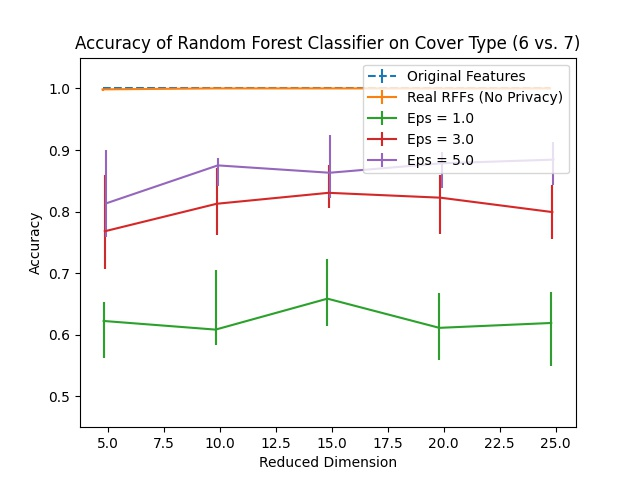
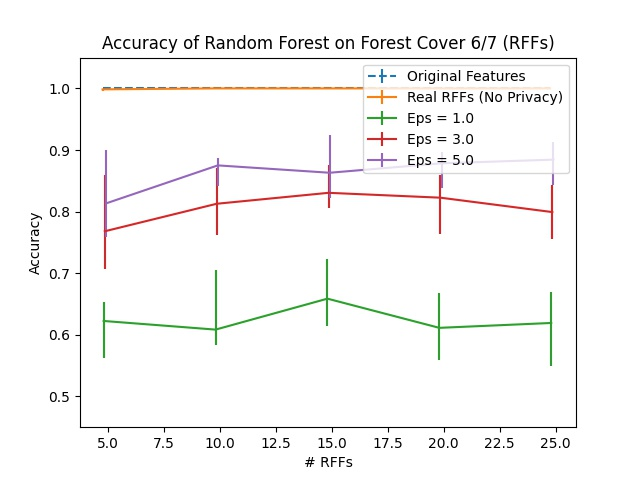
Change script for joining

Changed region(s): [[0.125, 0.0625, 0.9062, 0.125], [0.4062, 0.9375, 0.625, 0.9688]]

diff --git a/multi-dim-featcreation/epileptic/epilepticjoin_privaterff_real.py b/multi-dim-featcreation/epileptic/epilepticjoin_privaterff_real.py
@@ -2,6 +2,7 @@ from sklearnex import patch_sklearn
 patch_sklearn()
 
 import numpy as np
+import scipy as sc
 import matplotlib.pyplot as plt
 import pandas as pd
 from statistics import median
@@ -54,35 +55,26 @@ def prep_data(file, l_name, index_name = None, f_names = None, test_size = 0.2, 
 		f_test, l_test = df_test[f_names], df_test[l_name]
 	return f_train, l_train, f_test, l_test
 
-def get_random_orthonormal(vec_dim, num_vecs):
-	rand_mat = np.random.normal(size = (vec_dim, num_vecs))
-	Q, R = np.linalg.qr(rand_mat)
-	return Q
+def round_threshold(f):
+	return 0.5 * (1.0 - f / (2 ** 0.5))
 
-def priv_power_method(mat, num_iters, dim, eps = None, delta = 0.0001): 
-	cov = np.matmul(mat.T, mat)
-	X = get_random_orthonormal(cov.shape[1], dim)
-	if eps is not None:
-		sigma = (1.0 / eps) * ((4 * dim * num_iters * log(1.0 / delta)) ** 0.5)
+def rand_round(mat):
+	round_threshold_vec = np.vectorize(round_threshold)
+	thres = round_threshold_vec(mat)
+	rand_mat = np.random.uniform(size = (mat.shape[0], mat.shape[1]))
+	binary_mat = rand_mat > thres 
+	return (binary_mat * 2 * (2 ** (0.5))) - 2 ** (0.5)
 
-	for i in range(num_iters):
-		sens = np.absolute(X).max()
-		if eps is None:
-			Y = np.matmul(cov, X)
-		else:
-			Y = np.matmul(cov, X) + np.random.normal(scale = (sens * sigma) ** 2, size = (cov.shape[0], dim))
-		X, R = np.linalg.qr(Y)
-	return X
+def get_rffs(mat, dim, bandwidth):
+	omega = (2 ** (0.5)) * np.random.normal(loc = 0, scale = 1.0 / bandwidth, size = (mat.shape[1], dim))
+	beta = np.random.uniform(0, 2 * np.pi, dim).reshape(1, -1)
+	return omega, beta, (2 ** (0.5)) * np.cos(np.matmul(mat, omega) + beta)
 
-def get_sens_list(f_train):
-	f_train_abs = np.absolute(f_train)
-	return [f_train_abs[:, i].max() for i in range(f_train.shape[1])] 
-
-def get_loss(f_train, l_train, f_test, l_test, alg = 'Logistic Regression'):
+def get_loss(f_train, l_train, f_test, l_test, alg = 'LogisticRegression'):
 	classifier = method_to_obj[alg]
 	classifier.fit(f_train, l_train.to_numpy().reshape(l_train.size))
 	pred = classifier.predict(f_test)
-	return metrics.accuracy_score(l_test.to_numpy().reshape(l_test.size), pred) 
+	return metrics.accuracy_score(l_test.to_numpy().reshape(l_test.size), pred)
 
 if __name__ == "__main__":
 	num_trials = 25
@@ -97,12 +89,10 @@ if __name__ == "__main__":
 	f_train = f_train.loc[l_train.index]
 	l_test = l_test[(l_test['Cover_Type'] == 6) | (l_test['Cover_Type'] == 7)]
 	f_test = f_test.loc[l_test.index]
-	print(l_train.value_counts())
-	print(l_test.value_counts())
 	
 	# Bias the training and test sets
 	index6_train = l_train.index[l_train['Cover_Type'] == 6] 
-	subsample7_train = l_train[l_train['Cover_Type'] == 7].sample(n = int(len(l_train[l_train['Cover_Type'] == 7]) / 4))
+	subsample7_train = l_train[l_train['Cover_Type'] == 7].sample(n = int(len(l_train) / 5))
 	index7_train = subsample7_train.index
 	index_train = index6_train.union(index7_train)
 	f_train = f_train.loc[index_train].to_numpy()
@@ -110,7 +100,7 @@ if __name__ == "__main__":
 	# l_train = l_train.to_frame()
 
 	index6_test = l_test.index[l_test['Cover_Type'] == 6] 
-	subsample7_test = l_test[l_test['Cover_Type'] == 7].sample(n = int(len(l_test[l_test['Cover_Type'] == 7]) / 4))
+	subsample7_test = l_test[l_test['Cover_Type'] == 7].sample(n = int(len(l_test) / 5))
 	index7_test = subsample7_test.index
 	index_test = index6_test.union(index7_test)
 	f_test = f_test.loc[index_test].to_numpy()
@@ -122,12 +112,18 @@ if __name__ == "__main__":
 	l_train = l_train.replace(7, 1)
 	l_test = l_test.replace(6, -1)
 	l_test = l_test.replace(7, 1)
+	print(l_train.value_counts())
+	print(l_train_ctrl.value_counts())
+	print(l_test.value_counts())
+
+	# Compute bandwidth
+	# pair_dists = sc.spatial.distance.pdist(f_train)
+	# bandwidth = np.median(pair_dists)
+	bandwidth = 1500
 
 	sketch_dim = [5, 10, 15, 20, 25]
-	num_iters = 50
-	eps_pca = 1000 # 0.1
 	total_eps_list = [1.0, 2.0, 3.0, 4.0, 5.0]
-	algs = ['AdaBoost', 'RandomForest', 'KNN']
+	algs = ['AdaBoost', 'KNN', 'RandomForest']
 
 	trial_dict = {}
 	loss_dict = {}
@@ -135,73 +131,75 @@ if __name__ == "__main__":
 	for alg in algs:
 		loss_dict[alg] = {}
 		loss_dict[alg]['Dimension'] = []
-		loss_dict[alg]['PCA'] = []
+		loss_dict[alg]['RFF Real'] = []
+		loss_dict[alg]['RFF Real 25'] = []
+		loss_dict[alg]['RFF Real 75'] = []
 		for total_eps in total_eps_list:
 			loss_dict[alg]['Eps = %s' % str(total_eps)] = []
 			loss_dict[alg]['Eps = %s 25' % str(total_eps)] = []
 			loss_dict[alg]['Eps = %s 75' % str(total_eps)] = []
 		loss_ctrl[alg] = get_loss(f_train, l_train_ctrl, f_test, l_test, alg)
 		loss_dict[alg]['Original Features'] = []
-
 	print(loss_ctrl)
-
+	
 	for dim in sketch_dim:
 		print('Dimension %i' % dim)
+		print(bandwidth)
 
-		pca = priv_power_method(f_train, num_iters, dim)
-		f_train_pca = np.matmul(f_train, pca)
-		f_test_pca = np.matmul(f_test, pca)
+		# TODO: Optimize this later. 
 		for alg in algs:
-			loss_dict[alg]['Dimension'].append(dim)
-			loss_dict[alg]['PCA'].append(get_loss(f_train_pca, l_train_ctrl, f_test_pca, l_test, alg))
-			loss_dict[alg]['Original Features'].append(loss_ctrl[alg])
-
-		for total_eps in total_eps_list:
-			print('Total Eps = %s' % str(total_eps))
-			# eps = total_eps - eps_pca
-			eps_memb = total_eps / (dim + 1)
-			eps_val = total_eps - eps_memb
+			trial_dict[alg] = {}
+			trial_dict[alg]['RFF Real'] = []
+			for total_eps in total_eps_list:
+				trial_dict[alg]['Eps = %s' % str(total_eps)] = []
 			
+		for trial in range(num_trials):
+			print('Trial %i' % (trial + 1))
+			omega, beta, f_train_rff = get_rffs(f_train, dim, bandwidth)
+			f_test_rff = 2 ** (0.5) * np.cos(np.matmul(f_test, omega) + beta)
+
 			for alg in algs:
-				trial_dict[alg] = []
-			
-			for trial in range(num_trials):
-				print('Trial %i' % (trial + 1))
-				priv_pca = priv_power_method(f_train, num_iters, dim, eps_pca)
-				f_train_priv = np.matmul(f_train, priv_pca)
-				f_test_priv = np.matmul(f_test, priv_pca)
-				mean_train = np.mean(f_train_priv, axis = 0, keepdims = True)
-				f_train_priv = f_train_priv - mean_train
+				trial_dict[alg]['RFF Real'].append(get_loss(f_train_rff, l_train_ctrl, f_test_rff, l_test, alg))
 
-				sens_list = get_sens_list(f_train_priv)
-				f_train_priv = pd.DataFrame(data = f_train_priv, index = index_train, columns = ["Comp %i" % (i + 1) for i in range(dim)])
-				dp_join = DP_Join(eps_memb, eps_val, sens_list, 'Real')
-				dp_join.join(l_train, f_train_priv)
-				dp_join.features = dp_join.features + mean_train
+			f_train_rff = pd.DataFrame(data = f_train_rff, index = index_train, columns = ["Feat %i" % (i + 1) for i in range(dim)])
+			sens_list = [2 ** (0.5) for i in range(dim)]
+			for total_eps in total_eps_list:
+				print('Total Eps = %s' % str(total_eps))
+				eps_memb = total_eps / (dim + 1)
+				eps_val = total_eps # - eps_memb
+
+				dp_join = DP_Join(eps_memb, eps_val, sens_list) 
+				dp_join.join(l_train, f_train_rff, 'Real Clip') 
 
 				for alg in algs:
-					trial_dict[alg].append(get_loss(dp_join.features, dp_join.labels, f_test_priv, l_test, alg))
+					trial_dict[alg]['Eps = %s' % total_eps].append(get_loss(dp_join.features, dp_join.labels, f_test_rff, l_test, alg))
 
-			for alg in algs:
-				loss_dict[alg]['Eps = %s' % str(total_eps)].append(median(trial_dict[alg]))
-				loss_dict[alg]['Eps = %s 25' % str(total_eps)].append(median(trial_dict[alg]) - np.percentile(trial_dict[alg], 25))
-				loss_dict[alg]['Eps = %s 75' % str(total_eps)].append(np.percentile(trial_dict[alg], 75) - median(trial_dict[alg]))
+		for alg in algs:
+			loss_dict[alg]['Dimension'].append(dim)
+			loss_dict[alg]['Original Features'].append(loss_ctrl[alg])
+			loss_dict[alg]['RFF Real'].append(median(trial_dict[alg]['RFF Real']))
+			loss_dict[alg]['RFF Real 25'].append(median(trial_dict[alg]['RFF Real']) - np.percentile(trial_dict[alg]['RFF Real'], 25))
+			loss_dict[alg]['RFF Real 75'].append(np.percentile(trial_dict[alg]['RFF Real'], 75) - median(trial_dict[alg]['RFF Real']))
+			for total_eps in total_eps_list:
+				loss_dict[alg]['Eps = %s' % str(total_eps)].append(median(trial_dict[alg]['Eps = %s' % str(total_eps)]))
+				loss_dict[alg]['Eps = %s 25' % str(total_eps)].append(median(trial_dict[alg]['Eps = %s' % str(total_eps)]) - np.percentile(trial_dict[alg]['Eps = %s' % str(total_eps)], 25))
+				loss_dict[alg]['Eps = %s 75' % str(total_eps)].append(np.percentile(trial_dict[alg]['Eps = %s' % str(total_eps)], 75) - median(trial_dict[alg]['Eps = %s' % str(total_eps)]))
 		print()
 
 	for alg in algs:
 		alg_df = pd.DataFrame(loss_dict[alg])
 		alg_df = alg_df.set_index('Dimension')
-		alg_df = alg_df
+		alg_df = alg_df 
 		print(alg_df)
 
-		file = 'covtype67join_pca_%s_trials=%i' % (alg.lower(), num_trials)
+		file = 'covtype67join_rffrealclip_%s_trials=%i' % (alg.lower(), num_trials)
 		alg_df.to_csv('%s.csv' % file)
 		shift = -0.25
 		plt.ylim((0.0, 1.0))
 		plt.errorbar(alg_df.index + shift, alg_df['Original Features'], \
 			yerr = np.zeros(shape = (2, len(alg_df))), label = 'Original Features')
-		plt.errorbar(alg_df.index + shift, alg_df['PCA'], \
-			yerr = np.zeros(shape = (2, len(alg_df))), label = 'PCA')
+		plt.errorbar(alg_df.index + shift, alg_df['RFF Real'], \
+			yerr = alg_df[['RFF Real 25', 'RFF Real 75']].to_numpy().T, label = 'RFF Real')
 		shift += 0.05
 		for total_eps in total_eps_list:
 			plt.errorbar(alg_df.index + shift, alg_df['Eps = %s' % str(total_eps)], \

diff --git a/multi-dim-featcreation/epileptic/epilepticjoin_privatepca.py b/multi-dim-featcreation/epileptic/epilepticjoin_privatepca.py
@@ -87,41 +87,40 @@ def get_loss(f_train, l_train, f_test, l_test, alg = 'Logistic Regression'):
 if __name__ == "__main__":
 	num_trials = 25
 
-	file = '../../data/covtype.csv'
-	l_name = ['Cover_Type']
+	file = '../../data/epileptic.csv'
+	l_name = ['y']
 	f_train, l_train, f_test, l_test = prep_data(file, l_name)
-	f_names = f_train.columns
+	f_names = list(f_train.columns)
+	f_names.remove('Unnamed: 0')
+	index_train = f_train.index
 
-	f_train = f_train[f_names]
-	l_train = l_train[(l_train['Cover_Type'] == 6) | (l_train['Cover_Type'] == 7)]
-	f_train = f_train.loc[l_train.index]
-	l_test = l_test[(l_test['Cover_Type'] == 6) | (l_test['Cover_Type'] == 7)]
-	f_test = f_test.loc[l_test.index]
+	f_train, l_train = f_train[f_names], l_train[l_name].loc[f_train.index]
+	f_test, l_test = f_test[f_names], l_test[l_name].loc[f_test.index]
+	l_train = l_train.replace(2, -1)
+	l_train = l_train.replace(3, -1)
+	l_train = l_train.replace(4, -1)
+	l_train = l_train.replace(5, -1)
+	l_test = l_test.replace(2, -1)
+	l_test = l_test.replace(3, -1)
+	l_test = l_test.replace(4, -1)
+	l_test = l_test.replace(5, -1)
 	print(l_train.value_counts())
 	print(l_test.value_counts())
 	
 	# Bias the training and test sets
-	index6_train = l_train.index[l_train['Cover_Type'] == 6] 
-	subsample7_train = l_train[l_train['Cover_Type'] == 7].sample(n = int(len(l_train[l_train['Cover_Type'] == 7]) / 4))
-	index7_train = subsample7_train.index
-	index_train = index6_train.union(index7_train)
+	indexpos_train = l_train.index[l_train['y'] == 1] 
+	subsampleneg_train = l_train[l_train['y'] == -1].sample(n = int(len(l_train[l_train['y'] == -1]) / 4))
+	indexneg_train = subsampleneg_train.index
+	index_train = indexpos_train.union(indexneg_train)
 	f_train = f_train.loc[index_train].to_numpy()
 	l_train_ctrl = l_train.loc[index_train]
-	# l_train = l_train.to_frame()
 
-	index6_test = l_test.index[l_test['Cover_Type'] == 6] 
-	subsample7_test = l_test[l_test['Cover_Type'] == 7].sample(n = int(len(l_test[l_test['Cover_Type'] == 7]) / 4))
-	index7_test = subsample7_test.index
-	index_test = index6_test.union(index7_test)
+	indexpos_test = l_test.index[l_test['y'] == 1] 
+	subsampleneg_test = l_test[l_test['y'] == -1].sample(n = int(len(l_test[l_test['y'] == -1]) / 4))
+	indexneg_test = subsampleneg_test.index
+	index_test = indexpos_test.union(indexneg_test)
 	f_test = f_test.loc[index_test].to_numpy()
 	l_test = l_test.loc[index_test]
-
-	l_train_ctrl = l_train_ctrl.replace(6, -1)
-	l_train_ctrl = l_train_ctrl.replace(7, 1)
-	l_train = l_train.replace(6, -1)
-	l_train = l_train.replace(7, 1)
-	l_test = l_test.replace(6, -1)
-	l_test = l_test.replace(7, 1)
 
 	sketch_dim = [5, 10, 15, 20, 25]
 	num_iters = 50
@@ -194,7 +193,7 @@ if __name__ == "__main__":
 		alg_df = alg_df
 		print(alg_df)
 
-		file = 'covtype67join_pca_%s_trials=%i' % (alg.lower(), num_trials)
+		file = 'epilepticjoin_pca_%s_trials=%i' % (alg.lower(), num_trials)
 		alg_df.to_csv('%s.csv' % file)
 		shift = -0.25
 		plt.ylim((0.0, 1.0))

diff --git a/multi-dim-featcreation/Submission_Plots/Replot.py b/multi-dim-featcreation/Submission_Plots/Replot.py
@@ -2,11 +2,11 @@ import matplotlib.pyplot as plt
 import pandas as pd
 import numpy as np
 
-algs = ['LogisticRegression']
+algs = ['AdaBoost']
 num_trials = 25
 total_eps_list = [1.0, 2.0, 3.0, 4.0, 5.0]
 for alg in algs:
-	file = 'mnist49_pca_centeredclip_%s_trials=%i' % (alg.lower(), num_trials)
+	file = 'covtype67_rffrealclip_%s_trials=%i' % (alg.lower(), num_trials)
 	alg_df = pd.read_csv('%s.csv' % file)
 	alg_df = alg_df.set_index('Dimension')
 	print(alg_df)
@@ -16,10 +16,10 @@ for alg in algs:
 	plt.ylim((0.45, 1.05))
 	plt.errorbar(alg_df.index + shift, alg_df['Original Features'], \
 		yerr = np.zeros(shape = (2, len(alg_df))), label = 'Original Features', linestyle = 'dashed')
-	plt.errorbar(alg_df.index + shift, alg_df['PCA'], \
-		yerr = np.zeros(shape = (2, len(alg_df))), label = 'PCA (No Privacy)')
-	# plt.errorbar(alg_df.index + shift, alg_df['RFF Real'], \
-	# 	yerr = alg_df[['RFF Real 25', 'RFF Real 75']].to_numpy().T, label = 'Real RFFs (No Privacy)')
+	# plt.errorbar(alg_df.index + shift, alg_df['PCA'], \
+	# 	yerr = np.zeros(shape = (2, len(alg_df))), label = 'PCA (No Privacy)')
+	plt.errorbar(alg_df.index + shift, alg_df['RFF Real'], \
+		yerr = alg_df[['RFF Real 25', 'RFF Real 75']].to_numpy().T, label = 'Real RFFs (No Privacy)')
 	shift += 0.05
 	for total_eps in total_eps_list:
 		if total_eps == 2.0 or total_eps == 4.0:
@@ -28,9 +28,9 @@ for alg in algs:
 			yerr = alg_df[['Eps = %s 25' % str(total_eps), 'Eps = %s 75' % str(total_eps)]].to_numpy().T, label = 'Eps = %s' % str(total_eps))
 		shift += 0.05
 
-	plt.xlabel("Reduced Dimension")
+	plt.xlabel("# RFFs")
 	plt.ylabel("Accuracy")
-	plt.title('Accuracy of Logistic Reg. on MNIST, 4 vs. 9 (PCA)')
-	plt.legend(loc = "upper right")
+	plt.title('Accuracy of AdaBoost on Forest Cover 6/7 (RFFs)')
+	plt.legend(loc = "lower right")
 	plt.savefig('%s.jpg' % file)
 	plt.close()
